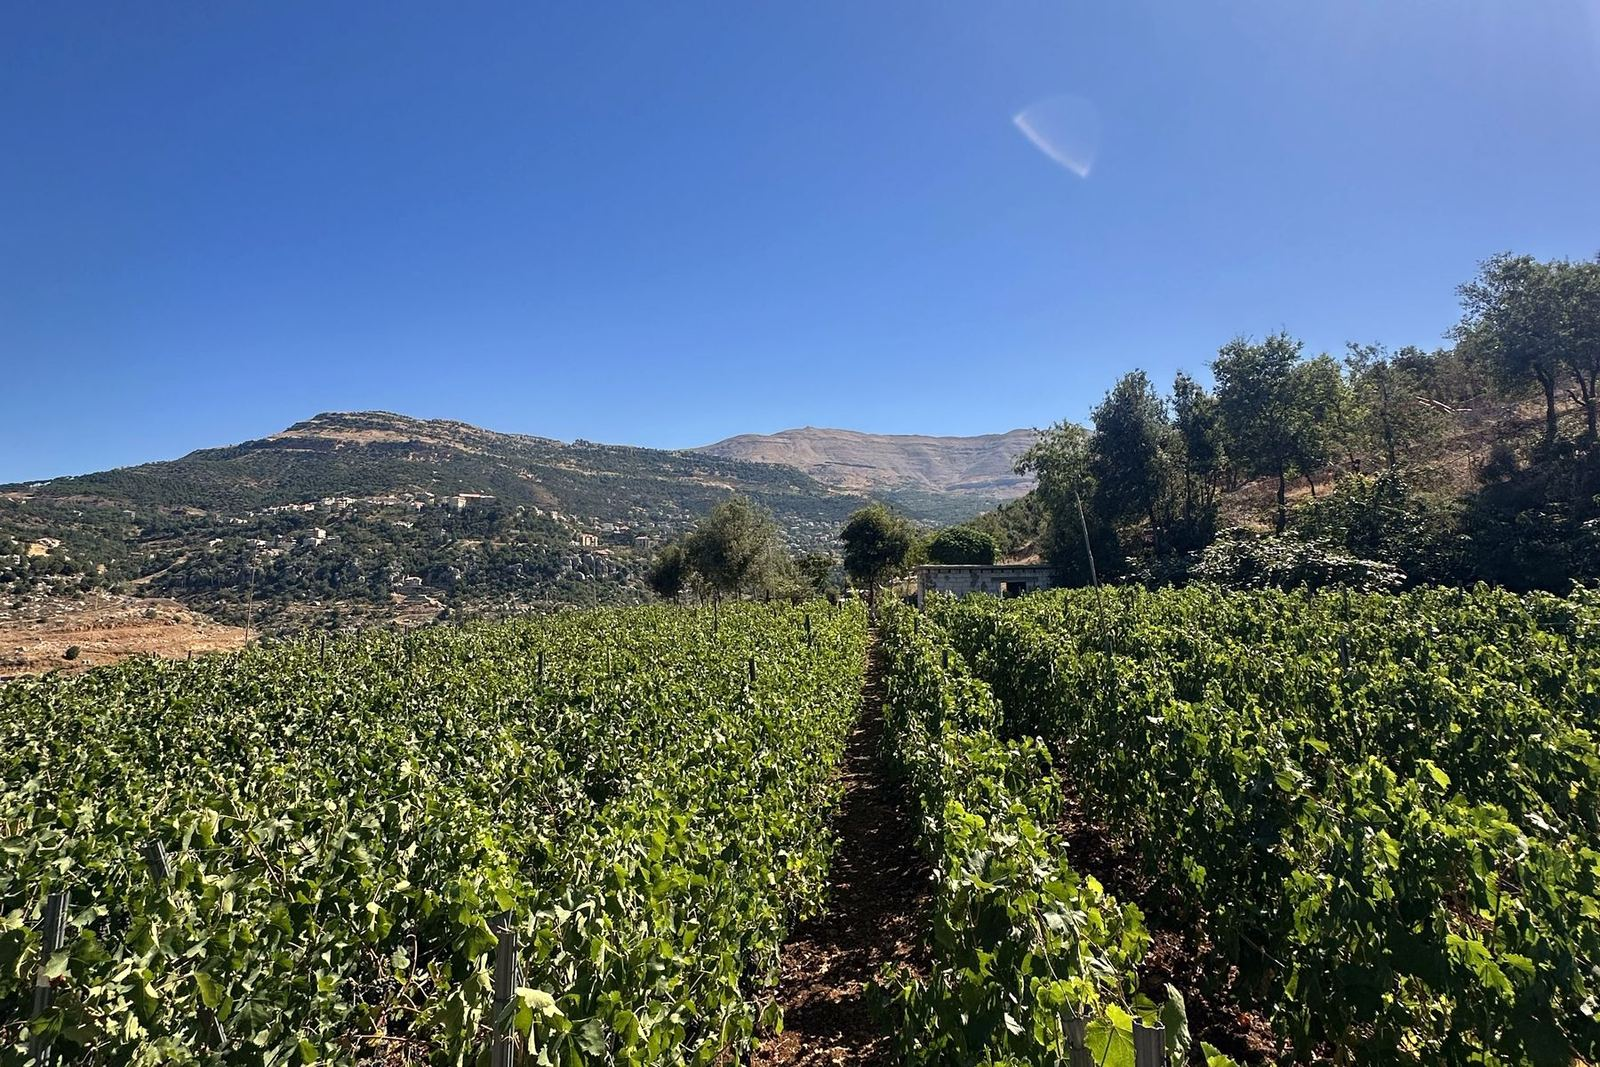
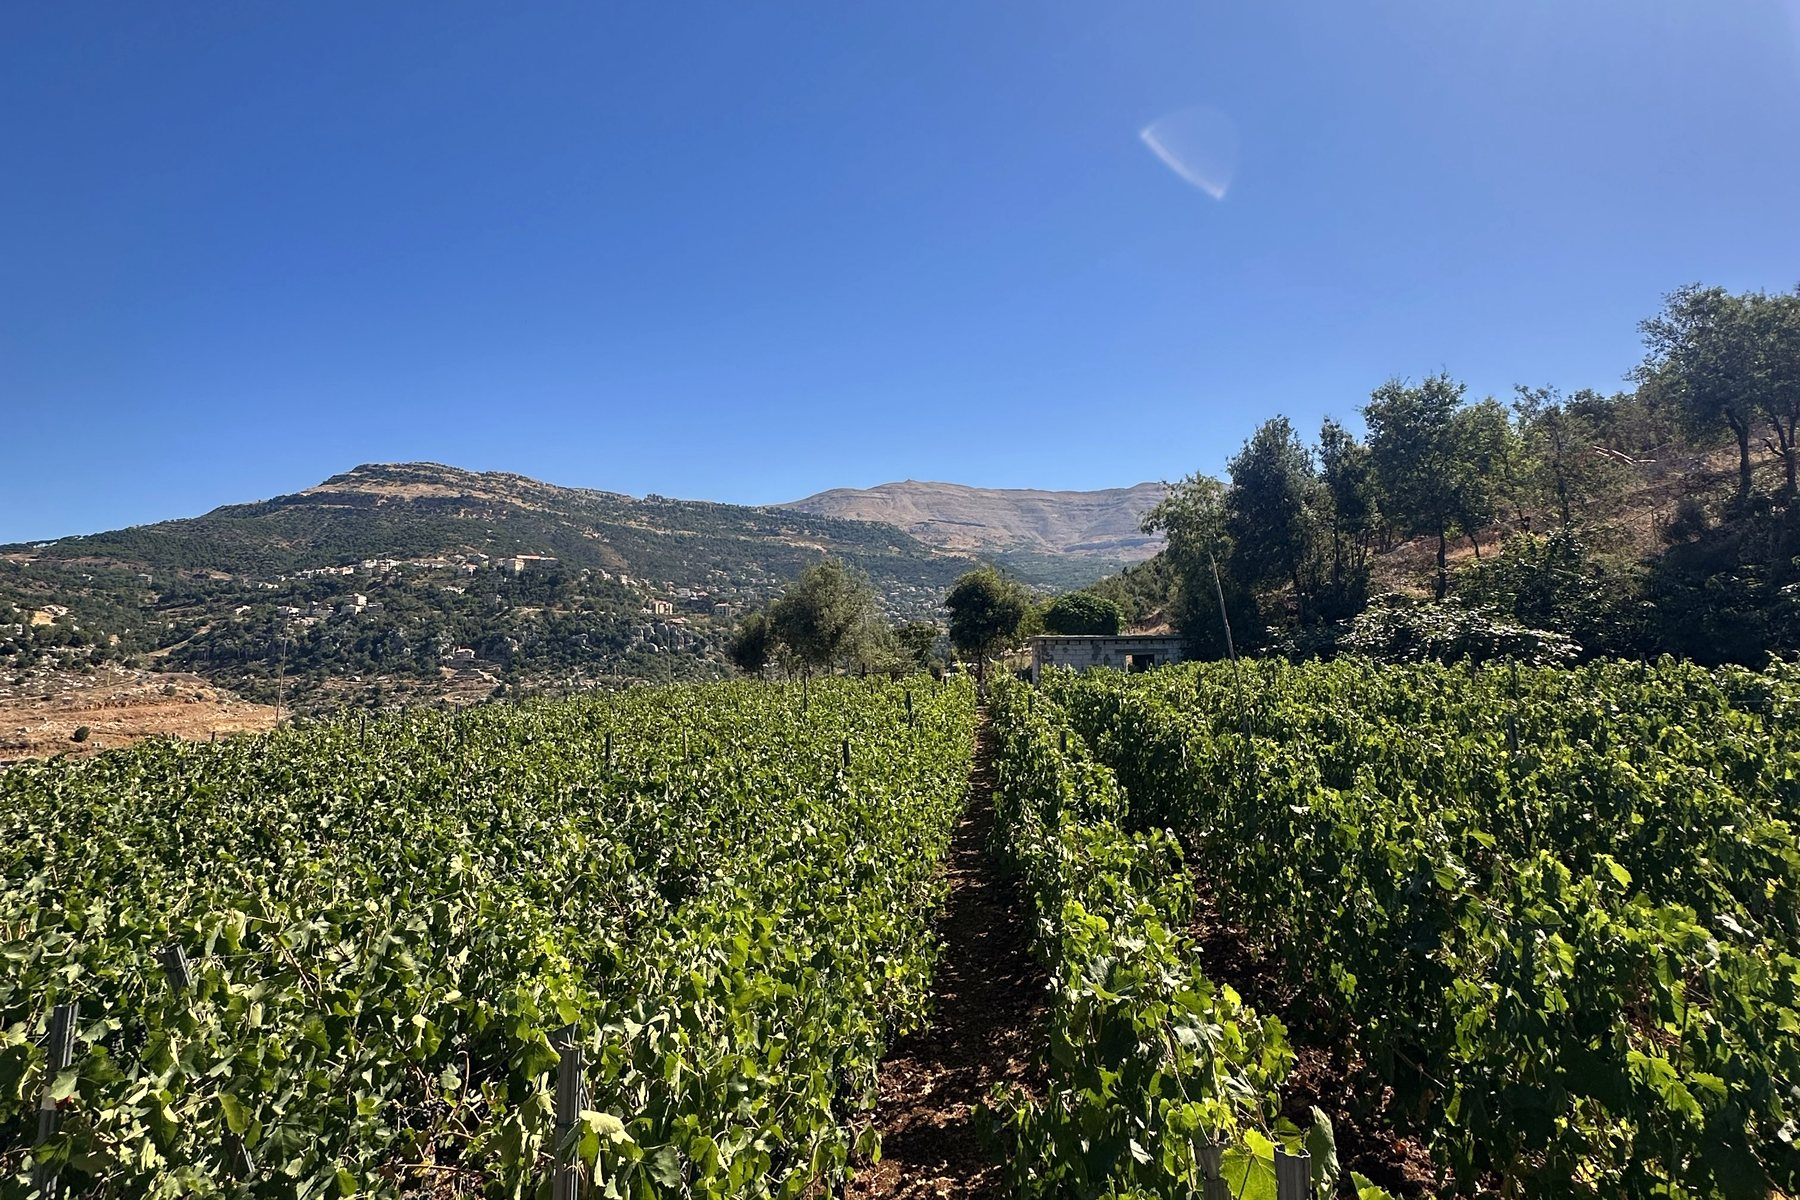
Add files via upload

diff --git a/index.html b/index.html
@@ -225,7 +225,7 @@ body.menu-open .mobile-menu li:nth-child(3) a{ transition-delay:.2s; }
   position:absolute; inset:0;
   background:
     linear-gradient(to top, rgba(15,4,4,.72) 0%, rgba(15,4,4,.3) 30%, rgba(15,4,4,0) 62%),
-    linear-gradient(to right, rgba(15,4,4,.58) 0%, rgba(15,4,4,.22) 40%, rgba(15,4,4,0) 68%);
+    linear-gradient(to right, rgba(15,4,4,.68) 0%, rgba(15,4,4,.28) 42%, rgba(15,4,4,0) 70%);
 }
 .hero-vine{
   position:absolute; right:-2rem; top:-2rem; width:52%; height:112%;
@@ -631,7 +631,7 @@ footer{
   <section class="hero" id="home">
     <picture class="hero-media">
       <source srcset="hero.webp" type="image/webp">
-      <img src="hero.jpg" width="1600" height="1067" fetchpriority="high" decoding="async"
+      <img src="hero.jpg" width="1800" height="1200" fetchpriority="high" decoding="async"
            class="ta" data-alt-fr="Le vignoble du Domaine des Chênes, face au mont Sannine"
            data-alt-en="The Domaine des Chênes vineyard, facing Mount Sannine"
            alt="Le vignoble du Domaine des Chênes, face au mont Sannine">
